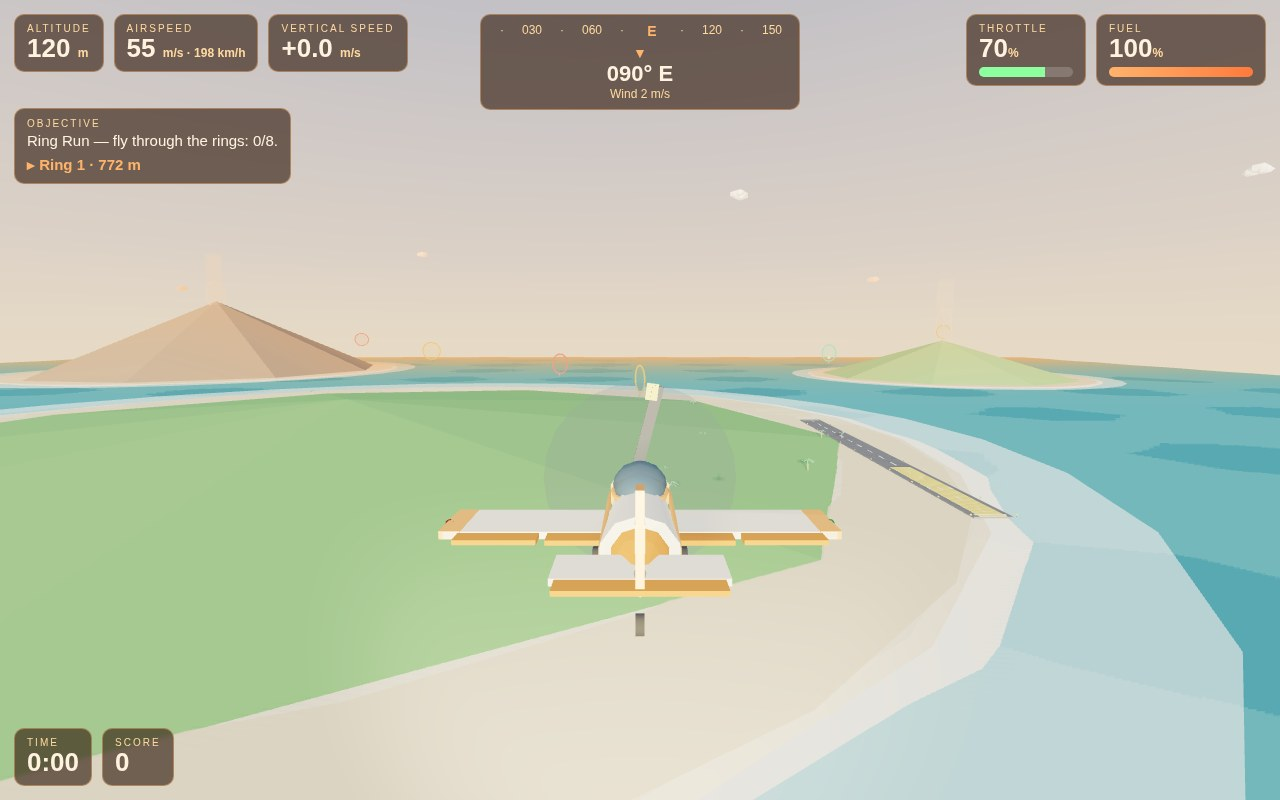
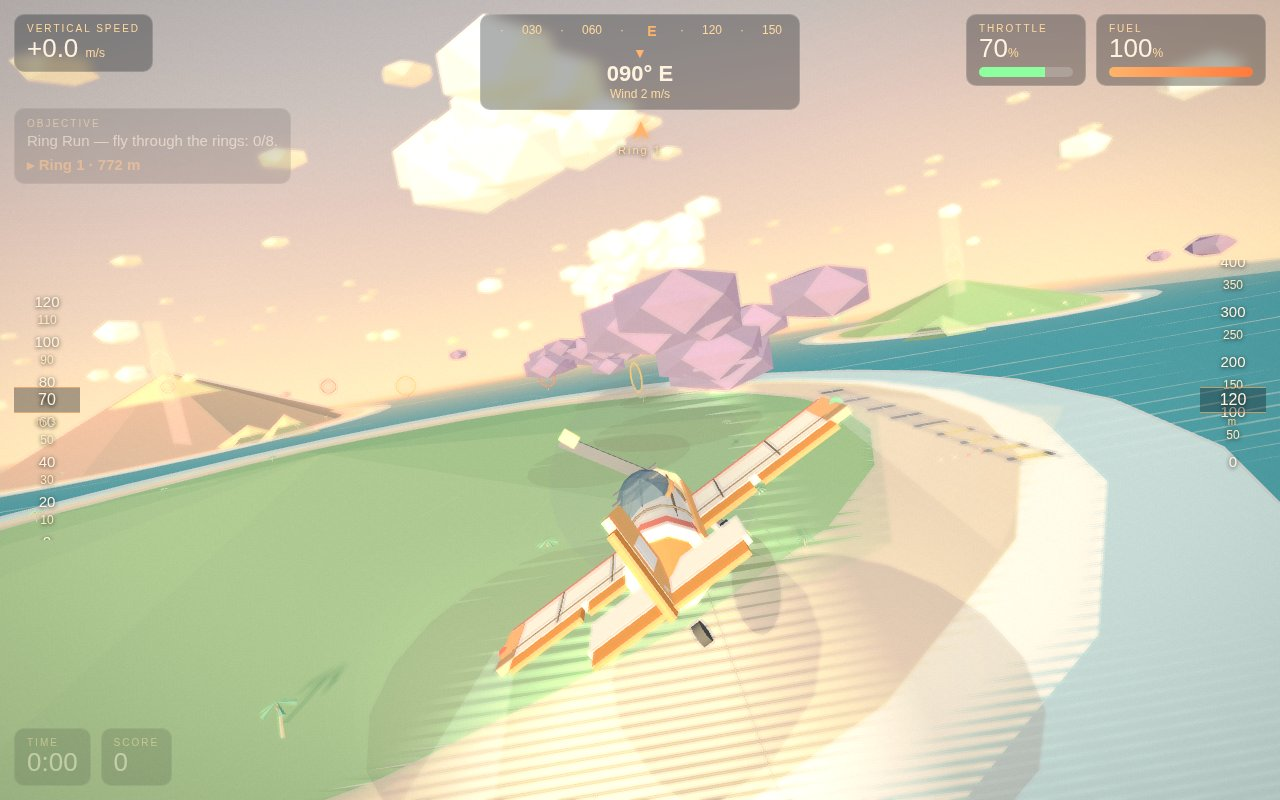
G4 camera/HUD + re-screenshot + re-bundle

diff --git a/game/src/hud.js b/game/src/hud.js
@@ -40,6 +40,33 @@ const PANEL_CSS = [
   '#hud-banner{position:absolute;top:30%;left:50%;transform:translate(-50%,-50%);text-align:center;pointer-events:none}',
   '.hud-banner-title{font-size:52px;font-weight:bold;letter-spacing:3px;color:#fff3e0;text-shadow:0 4px 0 rgba(120,40,0,.55),0 8px 28px rgba(0,0,0,.7)}',
   '.hud-banner-sub{font-size:20px;color:#ffd9a0;margin-top:8px;text-shadow:0 2px 10px rgba(0,0,0,.7)}',
+  // P8 — glassmorphism: thin translucent panels, not thick boxes.
+  // The HUD reads light (font-weight 300) over a dark glass wash, so
+  // the terrain behind it stays visible through the edges.
+  '#hud .panel{background:rgba(8,14,22,.32);border:1px solid rgba(255,255,255,.16);border-radius:10px;backdrop-filter:blur(6px);-webkit-backdrop-filter:blur(6px);box-shadow:none}',
+  '#hud{font-weight:300}',
+  '#hud .label{font-weight:300;letter-spacing:2px}',
+  '#hud .value{font-weight:400}',
+  // P8 — speed / altitude tapes: a moving strip of numbers down each
+  // screen edge, the live value held in a glass centre band.
+  '.hud-tape{position:absolute;top:50%;transform:translateY(-50%);width:66px;height:280px;overflow:hidden;pointer-events:none;z-index:4}',
+  '.hud-tape.left{left:14px}',
+  '.hud-tape.right{right:14px}',
+  '.hud-tape-inner{position:absolute;left:0;top:0;width:100%;will-change:transform}',
+  '.hud-tape .tape-tick{position:absolute;left:0;width:100%;text-align:center;font-size:12px;color:#ffe9c4;text-shadow:0 1px 4px rgba(0,0,0,.8);white-space:nowrap}',
+  '.hud-tape .tape-tick.major{font-size:15px;font-weight:500;color:#fff3e0}',
+  '.hud-tape-centre{position:absolute;left:0;right:0;top:50%;height:26px;margin-top:-13px;border-top:1px solid rgba(255,179,107,.7);border-bottom:1px solid rgba(255,179,107,.7);background:rgba(8,14,22,.35);z-index:2}',
+  '.hud-tape-value{position:absolute;left:0;right:0;top:50%;height:26px;margin-top:-13px;line-height:26px;text-align:center;font-size:16px;font-weight:500;color:#fff3e0;z-index:3;text-shadow:0 1px 4px rgba(0,0,0,.8)}',
+  '.hud-tape-unit{position:absolute;left:0;right:0;top:50%;margin-top:16px;text-align:center;font-size:10px;letter-spacing:2px;color:#ffd9a0;z-index:3;text-shadow:0 1px 4px rgba(0,0,0,.8)}',
+  // P8 — waypoint arrow: a single chevron under the compass, rotated
+  // toward the next target, so the centre of the screen stays clear.
+  '#hud-waypoint{position:absolute;top:118px;left:50%;transform:translateX(-50%);z-index:4;pointer-events:none;text-align:center;display:none}',
+  '#hud-waypoint .wp-arrow{font-size:26px;line-height:1;color:#ffb36b;text-shadow:0 0 10px rgba(255,150,60,.7);display:inline-block;will-change:transform}',
+  '#hud-waypoint .wp-label{font-size:11px;letter-spacing:2px;color:#ffd9a0;text-shadow:0 1px 4px rgba(0,0,0,.8)}',
+  // P8 — objective and score fade to a whisper after 3 s without a
+  // change; any new objective or score change brings them back.
+  '#hud-objective,#hud-timer-score{transition:opacity .8s ease}',
+  '#hud-objective.hud-faded,#hud-timer-score.hud-faded{opacity:.38}',
 ].join('\n');
 
 function clamp(v, lo, hi) {
@@ -84,6 +111,7 @@ export function createHud(document) {
     objectivePanel: $('hud-objective'),
     timer: $('hud-timer'),
     score: $('hud-score'),
+    timerScore: $('hud-timer-score'),
     message: $('hud-message'),
     stall: $('hud-stall'),
     compass: $('compass'),
@@ -174,6 +202,52 @@ export function createHud(document) {
     windLine.style.display = 'none';
     windLine.style.fontSize = '12px';
     windLine.style.color = '#ffd9a0';
+  }
+
+  // ---- P8 — speed tape (left edge) + altitude tape (right edge).
+  // Each tape is a strip of tick labels that slides so the live value
+  // stays in the centre band; the static Altitude/Airspeed panels in
+  // index.html are hidden once the tapes exist, so the number is shown
+  // exactly once, moving, instead of twice and static.
+  const TAPE_HALF = 140; // half the 280px tape height
+  function makeTape(side, max, step, majorStep, pxPerUnit, unit) {
+    if (!doc.createElement || !el.hud) return null;
+    const tape = mk('div', 'hud-tape ' + side, el.hud);
+    const inner = mk('div', 'hud-tape-inner', tape);
+    for (let v = 0; v <= max; v += step) {
+      const tick = mk('span', 'tape-tick', inner);
+      tick.textContent = String(v);
+      if (v % majorStep === 0) tick.className = 'tape-tick major';
+      tick.style.top = (TAPE_HALF - v * pxPerUnit - 7) + 'px';
+    }
+    mk('div', 'hud-tape-centre', tape);
+    const val = mk('div', 'hud-tape-value', tape);
+    const un = mk('div', 'hud-tape-unit', tape);
+    un.textContent = unit;
+    return { tape, inner, val, pxPerUnit };
+  }
+  const speedTape = makeTape('left', 120, 10, 20, 2, 'm/s');
+  const altTape = makeTape('right', 600, 50, 100, 0.5, 'm');
+  function hidePanelOf(node) {
+    let p = node;
+    while (p && !(p.classList && p.classList.contains('panel'))) {
+      p = p.parentNode;
+    }
+    if (p && p.style) p.style.display = 'none';
+  }
+  if (speedTape) hidePanelOf(el.speed);
+  if (altTape) hidePanelOf(el.alt);
+
+  // ---- P8 — waypoint arrow under the compass strip.
+  let waypoint = null;
+  let waypointArrow = null;
+  let waypointLabel = null;
+  if (doc.createElement && el.hud) {
+    waypoint = mk('div', '', el.hud);
+    waypoint.id = 'hud-waypoint';
+    waypointArrow = mk('div', 'wp-arrow', waypoint);
+    waypointArrow.textContent = '➤';
+    waypointLabel = mk('div', 'wp-label', waypoint);
   }
 
   // ---- Next-target line inside the objective panel ----
@@ -272,6 +346,10 @@ export function createHud(document) {
 
   let messageTimer = null;
   let bannerTimer = null;
+  // P8 — fade clock: objective + score dim 3 s after their last change.
+  let hudChangeAt = Date.now();
+  let lastFadeObjective = null;
+  let lastFadeScore = null;
   const lowFuelAt =
     (TUNING.fuel && TUNING.fuel.lowFuelWarning) || 20;
 
@@ -354,6 +432,25 @@ export function createHud(document) {
 
     const speed = state.speed || 0;
     writeText(el.speed, 'speed', String(Math.round(speed)));
+    // P8 — the tapes slide so the live value stays in the centre band.
+    if (speedTape) {
+      writeStyle(
+        speedTape.inner,
+        'speed-tape',
+        'transform',
+        'translateY(' + (speed * speedTape.pxPerUnit).toFixed(1) + 'px)'
+      );
+      writeText(speedTape.val, 'speed-tape-val', String(Math.round(speed)));
+    }
+    if (altTape) {
+      writeStyle(
+        altTape.inner,
+        'alt-tape',
+        'transform',
+        'translateY(' + (alt * altTape.pxPerUnit).toFixed(1) + 'px)'
+      );
+      writeText(altTape.val, 'alt-tape-val', String(alt));
+    }
     const speedUnit =
       el.speed && el.speed.nextElementSibling ? el.speed.nextElementSibling : null;
     writeText(
@@ -407,6 +504,22 @@ export function createHud(document) {
 
     if (state.objective !== undefined) setObjective(state.objective);
 
+    // P8 — objective + score fade out 3 s after their last change and
+    // come back the moment either changes again.
+    const nowMs = Date.now();
+    const scoreNow = Math.round(state.score || 0);
+    if (
+      state.objective !== lastFadeObjective ||
+      scoreNow !== lastFadeScore
+    ) {
+      lastFadeObjective = state.objective;
+      lastFadeScore = scoreNow;
+      hudChangeAt = nowMs;
+    }
+    const hudFaded = nowMs - hudChangeAt > 3000;
+    setClass(el.objectivePanel, 'hud-faded', hudFaded);
+    setClass(el.timerScore, 'hud-faded', hudFaded);
+
     writeText(el.timer, 'timer', formatClock(state.time || 0));
     writeText(
       el.score,
@@ -425,6 +538,25 @@ export function createHud(document) {
         writeStyle(targetLine, 'target-display', 'display', 'block');
       } else {
         writeStyle(targetLine, 'target-display', 'display', 'none');
+      }
+    }
+
+    // P8 — waypoint arrow: points toward the next target relative to
+    // the nose (0 = dead ahead). The chevron glyph points right, so
+    // -90 deg centres it on straight ahead.
+    if (waypoint) {
+      const t = state.target;
+      if (t && t.label) {
+        writeStyle(waypoint, 'wp-display', 'display', 'block');
+        writeStyle(
+          waypointArrow,
+          'wp-rot',
+          'transform',
+          'rotate(' + (((t.bearing || 0) - 90).toFixed(0)) + 'deg)'
+        );
+        writeText(waypointLabel, 'wp-label', t.label);
+      } else {
+        writeStyle(waypoint, 'wp-display', 'display', 'none');
       }
     }
 

diff --git a/game/src/render.js b/game/src/render.js
@@ -89,7 +89,13 @@ function makeSkyDome() {
 
 export function createRenderer(canvas, world) {
   const camCfg = TUNING.camera;
-  const fov = camCfg.fov || 68;
+  // P7 — speed-stretched field of view: 60 deg cruising, widening to
+  // 72 deg at max speed, eased (never snapped) so the rush of speed
+  // reads without the frame jumping. The base replaces the old fixed
+  // config fov; the config value stays as the chase/cockpit fallback.
+  const FOV_BASE = 60;
+  const FOV_TOP = 72;
+  const fov = FOV_BASE;
 
   const renderer = new THREE.WebGLRenderer({ canvas, antialias: true });
   renderer.setPixelRatio(Math.min(window.devicePixelRatio || 1, 2));
@@ -247,6 +253,11 @@ export function createRenderer(canvas, world) {
   let lookYaw = 0;
   let lookPitch = 0;
   let shakeAmp = 0;
+  // P7 — eased FOV state: the live field of view chases its speed
+  // target at ~2.5/s, so view switches (cockpit<->chase) ease the FOV
+  // as well as the position instead of snapping it.
+  let fovCurrent = FOV_BASE;
+  let fovApplied = FOV_BASE;
   let prevDamage = 0;
   let crashShakeDone = false;
   // True until the first frame (or after snap()): the camera jumps
@@ -313,6 +324,12 @@ export function createRenderer(canvas, world) {
       .addScaledVector(tmpForward, 14);
     tmpTarget.y += 1.2;
     chaseCamera.lookAt(tmpTarget);
+    // P7 — the chase camera banks with the plane, about a third of the
+    // plane's roll: the plane stays near-level in the frame while the
+    // horizon tilts, so a turn feels like a turn instead of a slide.
+    // Negative sign: the camera rolls the same way as the plane (a
+    // right bank is clockwise seen from behind, a negative Z rotation).
+    chaseCamera.rotateZ(-(state.roll || 0) * 0.35);
   }
 
   // Where the cockpit camera wants to be: the pilot's eye, looking
@@ -474,6 +491,29 @@ export function createRenderer(canvas, world) {
         shakeAmp *= Math.exp(-dt * 2.6);
       } else {
         shakeAmp = 0;
+      }
+
+      // P7 — speed-stretched FOV: 60 deg at rest easing to 72 deg at
+      // max speed, plus a fine high-frequency shudder that only wakes
+      // above 85% of max speed (small amplitude, ~13 Hz, so the frame
+      // trembles instead of jumping around).
+      const maxSpeed = (TUNING.flight && TUNING.flight.maxSpeed) || 88;
+      const speedRatio = clamp((st.speed || 0) / maxSpeed, 0, 1);
+      const fovTarget = FOV_BASE + (FOV_TOP - FOV_BASE) * speedRatio;
+      fovCurrent += (fovTarget - fovCurrent) * (1 - Math.exp(-dt * 2.5));
+      if (Math.abs(fovCurrent - fovApplied) > 0.01) {
+        fovApplied = fovCurrent;
+        camera.fov = fovApplied;
+        chaseCamera.fov = fovApplied;
+        cockpitCamera.fov = fovApplied;
+        camera.updateProjectionMatrix();
+        chaseCamera.updateProjectionMatrix();
+        cockpitCamera.updateProjectionMatrix();
+      }
+      if (speedRatio > 0.85) {
+        const tremble = 0.12 * ((speedRatio - 0.85) / 0.15);
+        camera.position.x += Math.sin(ambientTime * 83) * tremble * 0.5;
+        camera.position.y += Math.sin(ambientTime * 67 + 1.3) * tremble * 0.5;
       }
 
       // Blob shadow: the plane's shadow on the ground, offset along the

diff --git a/game/src/world.js b/game/src/world.js
@@ -300,6 +300,53 @@ function makeRunway(rw) {
     runway.add(bar);
   }
 
+  // P9 — PAPI lights: four lamps in a row beside the runway near the
+  // west threshold, on the pilot's left as they approach eastbound.
+  // Two red + two white reads as "on glidepath" from the approach.
+  const papiX = -rw.length / 2 + 32;
+  const papiBaseZ = -(rw.width / 2 + 6);
+  const papiCols = [0xff3b30, 0xff3b30, 0xfff6e0, 0xfff6e0];
+  for (let i = 0; i < 4; i++) {
+    const post = new THREE.Mesh(postGeo, postMat);
+    post.position.set(papiX, 0.7, papiBaseZ - i * 9);
+    runway.add(post);
+    const lamp = new THREE.Mesh(
+      new THREE.BoxGeometry(2, 1.6, 2),
+      new THREE.MeshBasicMaterial({ color: papiCols[i] })
+    );
+    lamp.position.set(papiX, 1.9, papiBaseZ - i * 9);
+    runway.add(lamp);
+  }
+
+  // P9 — runway number "09" painted past the west threshold, digits
+  // built from seven-segment bars (height along the strip, top toward
+  // the far end, so an approaching pilot reads it upright).
+  function paintDigit(segments, cx, cz) {
+    // Segment bars: horizontals span the digit width (z), verticals
+    // span half the digit height (x). Digit height 12, width 7.
+    const segGeoH = new THREE.BoxGeometry(1.2, 0.2, 7);
+    const segGeoV = new THREE.BoxGeometry(6, 0.2, 1.2);
+    const segAt = {
+      a: [6, 0, segGeoH],
+      g: [0, 0, segGeoH],
+      d: [-6, 0, segGeoH],
+      f: [3, -2.9, segGeoV],
+      b: [3, 2.9, segGeoV],
+      e: [-3, -2.9, segGeoV],
+      c: [-3, 2.9, segGeoV],
+    };
+    for (const s of segments) {
+      const def = segAt[s];
+      if (!def) continue;
+      const bar = new THREE.Mesh(def[2], lambert(PALETTE.paintWhite));
+      bar.position.set(cx + def[0], 0.12, cz + def[1]);
+      runway.add(bar);
+    }
+  }
+  const numX = -rw.length / 2 + 52;
+  paintDigit(['a', 'b', 'c', 'd', 'e', 'f'], numX, -4.5); // "0"
+  paintDigit(['a', 'b', 'c', 'd', 'f', 'g'], numX, 4.5); // "9"
+
   return runway;
 }
 

diff --git a/game/src/main.js b/game/src/main.js
@@ -95,6 +95,17 @@ function combinedHudState() {
   // missions.targetMarker() reports `distance`; the HUD reads `dist` —
   // normalise here so the target line shows the real range.
   const tm = missions.targetMarker();
+  // P8 — waypoint bearing: degrees from the nose to the next target,
+  // -180..180 (0 = dead ahead). Heading is 0 = north (-z), 90 = east
+  // (+x), so the target's absolute bearing is atan2(dx, -dz).
+  let targetBearing = 0;
+  if (tm && typeof tm.x === 'number' && typeof tm.z === 'number') {
+    const dx = tm.x - fs.position.x;
+    const dz = tm.z - fs.position.z;
+    const absBearing = (Math.atan2(dx, -dz) * 180) / Math.PI;
+    targetBearing =
+      (((absBearing - (fs.heading || 0) + 540) % 360) + 360) % 360 - 180;
+  }
   return {
     alt: fs.altitude,
     speed: fs.speed,
@@ -105,7 +116,9 @@ function combinedHudState() {
     score: liveScore(),
     time: missions.elapsed,
     objective: missions.objectiveText(),
-    target: tm ? { label: tm.label, dist: tm.distance } : null,
+    target: tm
+      ? { label: tm.label, dist: tm.distance, bearing: targetBearing }
+      : null,
     stalled: fs.stalled,
     damage: fs.damage,
     wind: fs.wind,
